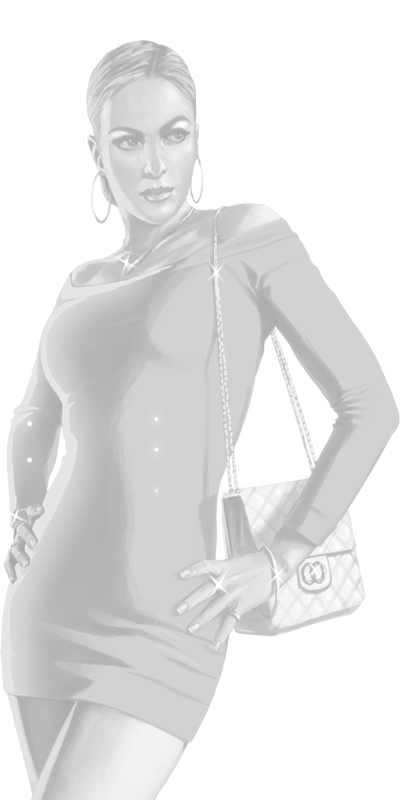
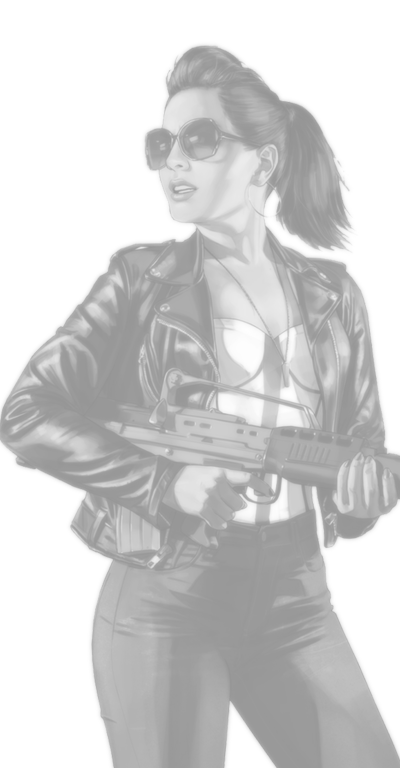
GUI Updates (npc-login)
Added breathing CSS effect. Updated Logo. Updated Male/Female Renders.

diff --git a/server-data/resources/[Core]/[NPC]/npc-login/html/index.html b/server-data/resources/[Core]/[NPC]/npc-login/html/index.html
@@ -48,6 +48,7 @@
                 <div class="character-header" v-if="!showNewChar && !currentCharData && showDeleteConfirmation == null">
                     <div class="character-button" v-if="displayCharSelect">
                       <div class="character-name-wrapper">
+					  <img class= "npclogo" src="images/logo.png" alt="npclogo" height="300px" width="300px">
                           <div class="character-name" v-bind:class="{'name-small' : longName}">Select a Character</div>
                       </div>
 
@@ -96,41 +97,41 @@
                     </div>
 
                     <div class="new-help-text">
-                        <div class="new-help-key">Single click</div>
-                        <div class="new-help-info">Select character</div>
+                        <div class="new-help-key">Single Click</div>
+                        <div class="new-help-info">Select Character</div>
                     </div>
 
                     <div class="new-help-text">
-                        <div class="new-help-key">Double click</div>
-                        <div class="new-help-info">Spawn selected character</div>
+                        <div class="new-help-key">Double Click</div>
+                        <div class="new-help-info">Spawn Selected Character</div>
                     </div>
 
                     <div class="new-help-text">
                         <div class="new-help-key">Hover</div>
-                        <div class="new-help-info">Display current character</div>
+                        <div class="new-help-info">Display Current Character</div>
                     </div>
 
                     <div style="padding-top: 3%; font-size: 1.6vh">Creating a New Character:</div>
 
                     <div class="new-help-text">
                         <div class="new-help-key">Double Click</div>
-                        <div class="new-help-info">On blank character slot</div>
+                        <div class="new-help-info">On Blank Character Slot</div>
                     </div>
 
                     <div class="new-help-text">
                         <div class="new-help-key">Icon</div>
-                        <div class="new-help-info">Lower left plus icon</div>
+                        <div class="new-help-info">Lower Left Plus Icon</div>
                     </div>
 
                     <div style="padding-top: 3%; font-size: 1.6vh">Toggle Help:</div>
                     <div class="new-help-text">
                         <div class="new-help-key">H</div>
-                        <div class="new-help-info">Toggle help menu</div>
+                        <div class="new-help-info">Toggle Help Menu</div>
                     </div>
 
                     <div class="new-help-text">
                         <div class="new-help-key">Icon</div>
-                        <div class="new-help-info">Question mark to Toggle menu</div>
+                        <div class="new-help-info">Question Mark to Toggle Menu</div>
                     </div>
                 </div>
             </div>

diff --git a/server-data/resources/[Core]/[NPC]/npc-login/html/style.css b/server-data/resources/[Core]/[NPC]/npc-login/html/style.css
@@ -537,6 +537,37 @@ body {
   display: none;
 }
 
+.npclogo {
+    animation: breathing 5s ease-out infinite;
+    opacity: 0.8;
+}
+
+@keyframes breathing {
+    0% {
+      -webkit-transform: scale(0.9);
+      -ms-transform: scale(0.9);
+      transform: scale(0.9);
+    }
+  
+    25% {
+      -webkit-transform: scale(1);
+      -ms-transform: scale(1);
+      transform: scale(1);
+    }
+  
+    60% {
+      -webkit-transform: scale(0.9);
+      -ms-transform: scale(0.9);
+      transform: scale(0.9);
+    }
+  
+    100% {
+      -webkit-transform: scale(0.9);
+      -ms-transform: scale(0.9);
+      transform: scale(0.9);
+    }
+}
+
 .logo {
   width: 100%;
   height: 100%;
